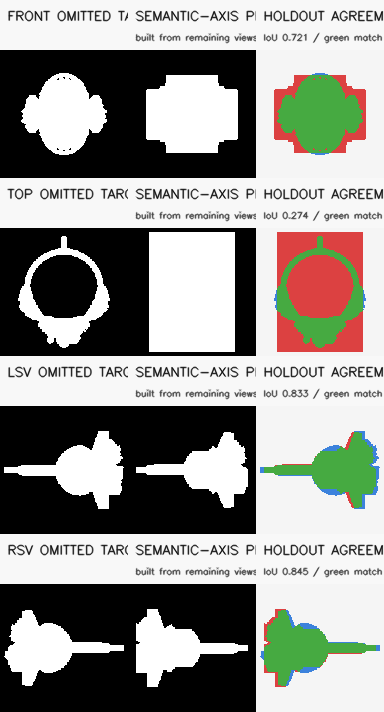
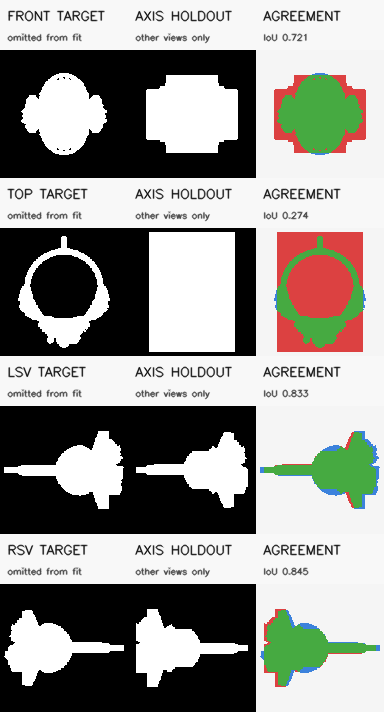
Clarify Phase 3 camera and surface validation

diff --git a/tests/test_dataset_studio.py b/tests/test_dataset_studio.py
@@ -360,6 +360,7 @@ class DatasetStudioApiTest(unittest.TestCase):
             'id="surface-normal-evidence"',
             'id="surface-normal-summary"',
             'id="cross-view-readiness"',
+            'id="semantic-camera-status"',
             'id="dataset-depth-summary"',
             'id="dataset-complete-summary"',
             'id="stl1-review-summary"',
@@ -415,6 +416,7 @@ class DatasetStudioApiTest(unittest.TestCase):
         self.assertIn('$("#surface-normal-summary")', javascript)
         self.assertIn('$("#cross-view-readiness")', javascript)
         self.assertIn('$("#ring01-vggt-status")', javascript)
+        self.assertIn('$("#semantic-camera-status")', javascript)
         self.assertIn("phase2.machine_review", javascript)
         self.assertIn("summary.phase1.complete_features", javascript)
         audit = self.client.get("/api/artifacts/phase2_reflection_audit")
@@ -610,6 +612,18 @@ class DatasetStudioApiTest(unittest.TestCase):
         self.assertEqual(refinement_preview.status_code, 200)
         self.assertEqual(refinement_preview.mimetype, "image/jpeg")
         refinement_preview.close()
+        semantic_report = self.client.get(
+            "/api/artifacts/semantic_camera_priors_report"
+        )
+        self.assertEqual(semantic_report.status_code, 200)
+        self.assertEqual(semantic_report.mimetype, "application/json")
+        semantic_report.close()
+        semantic_preview = self.client.get(
+            "/api/artifacts/semantic_ring_023_holdout"
+        )
+        self.assertEqual(semantic_preview.status_code, 200)
+        self.assertEqual(semantic_preview.mimetype, "image/png")
+        semantic_preview.close()
 
     def test_invalid_routes_fail_closed(self) -> None:
         self.assertEqual(self.client.get("/api/objects/ring_999").status_code, 404)

diff --git a/docs/bible_implementation/PROGRESS_ROADMAP.md b/docs/bible_implementation/PROGRESS_ROADMAP.md
@@ -29,20 +29,26 @@ replace or renumber the canonical [Project Bible roadmap](../bible_v1_0/19_DEVEL
 - Object-centric reframing was tested on the same three VGGT objects and
   rejected: cohort mean leave-one-view-out IoU decreased from `0.140` to
   `0.126`. The failed refinement and comparison preview are retained.
+- VGGT's pairwise optical-axis relationships are within `7.745` degrees of the
+  named-view priors on average, but the semantic holdout minimum is only
+  `0.274`. Naive semantic camera snapping reduced mean completion IoU to
+  `0.068`, so the original learned cameras remain the baseline.
 
 ## Remaining implementation
 
-1. Correct the learned camera/view alignment failure exposed by independent
-   leave-one-view-out reprojection; do not generate CAD from the current clouds.
-2. Evaluate object-centric framing and a resolution ladder on the representative
-   cohort before extending the GPU run to all 24 rings.
-3. Fuse consistent multi-view depth and normals while retaining uncertain pixels.
-4. Select a public-deployment-compatible independent normal comparator; DSINE
+1. Add model-aware visible-surface fusion and hidden-surface completion; do not
+   generate CAD from the current partial clouds.
+2. Use pairwise camera-angle diagnostics, projected-surface precision and
+   completion recall separately instead of treating IoU as camera accuracy.
+3. Evaluate a resolution ladder on the representative cohort only after the
+   revised diagnostics show that added pixels can address the remaining error.
+4. Fuse consistent multi-view depth and normals while retaining uncertain pixels.
+5. Select a public-deployment-compatible independent normal comparator; DSINE
    remains blocked without a separate site/commercial licence.
-5. Build the universal jewellery component and constraint graph.
-6. Support independently editable stones, prongs, seats, cavities and relief geometry.
-7. Generate parametric CAD and refine it through render-and-compare validation.
-8. Export editable STEP plus derived STL and 3MF artifacts with explicit validation reports.
+6. Build the universal jewellery component and constraint graph.
+7. Support independently editable stones, prongs, seats, cavities and relief geometry.
+8. Generate parametric CAD and refine it through render-and-compare validation.
+9. Export editable STEP plus derived STL and 3MF artifacts with explicit validation reports.
 
 The target is a high-fidelity, structurally editable reconstruction. Under the
 images-only constraint, verified millimetres and manufacturing accuracy cannot

diff --git a/docs/bible_implementation/phase_3_geometry_benchmark/README.md b/docs/bible_implementation/phase_3_geometry_benchmark/README.md
@@ -33,8 +33,9 @@ test) and `ring_023` (floral geometry, test). All 15 views completed below
 by at least two views, then excludes the target view before reprojecting into
 it. Mean leave-one-view-out silhouette IoU was `0.156287`, `0.158126` and
 `0.105821`; all three were rejected at the `0.80` mean / `0.70` minimum gate.
-The previews confirm camera/view disagreement rather than a small cloud-noise
-problem.
+That score is a surface-completion diagnostic: it combines camera alignment
+with the inability of four visible-surface maps to reconstruct geometry hidden
+from those views. It must not be reported as an isolated camera-pose score.
 
 An object-centric reframing refinement was then run on the same three objects
 with identical model, resolution and validation settings. It improved
@@ -43,6 +44,17 @@ with identical model, resolution and validation settings. It improved
 the candidate was rejected and the full-frame result remains the selected
 baseline. Both attempts and their transform manifests are retained; neither is
 approved geometry.
+
+A semantic-view diagnostic compared VGGT optical-axis relationships with the
+named front, top, isometric, left-side and right-side directions. Across the
+three-ring cohort, mean pairwise angular error was `7.744514` degrees. A
+leak-reduced named-axis silhouette holdout reached `0.705611` mean IoU, but its
+minimum was only `0.273760`, so it was not accepted as calibrated camera
+initialization. Directly snapping VGGT cameras to the nominal axes made the
+surface-completion score worse (`0.140078` to `0.068415`) and was rejected.
+The retained conclusion is narrower: VGGT's relative camera layout is broadly
+plausible, while hidden-surface completion, reflective detail and several side
+view relationships remain unresolved.
 
 External real-image intake remains part of Phase 1/2 generalisation testing:
 206 OrnAsia and Segment Your Ring images have been processed. They are not fed
@@ -99,6 +111,16 @@ docker run --rm --user "$(id -u):$(id -g)" \
   -v "$PWD:/workspace" -w /workspace \
   image2cad-validation:phase0 \
   python -m pipeline.validate_vggt_multiring_experiment
+
+docker run --rm --user "$(id -u):$(id -g)" \
+  -v "$PWD:/workspace" -w /workspace \
+  image2cad-validation:phase0 \
+  python -m pipeline.validate_semantic_camera_priors
+
+docker run --rm --user "$(id -u):$(id -g)" \
+  -v "$PWD:/workspace" -w /workspace \
+  image2cad-validation:phase0 \
+  python -m pipeline.refine_vggt_semantic_cameras
 ```
 
 ## Gate
